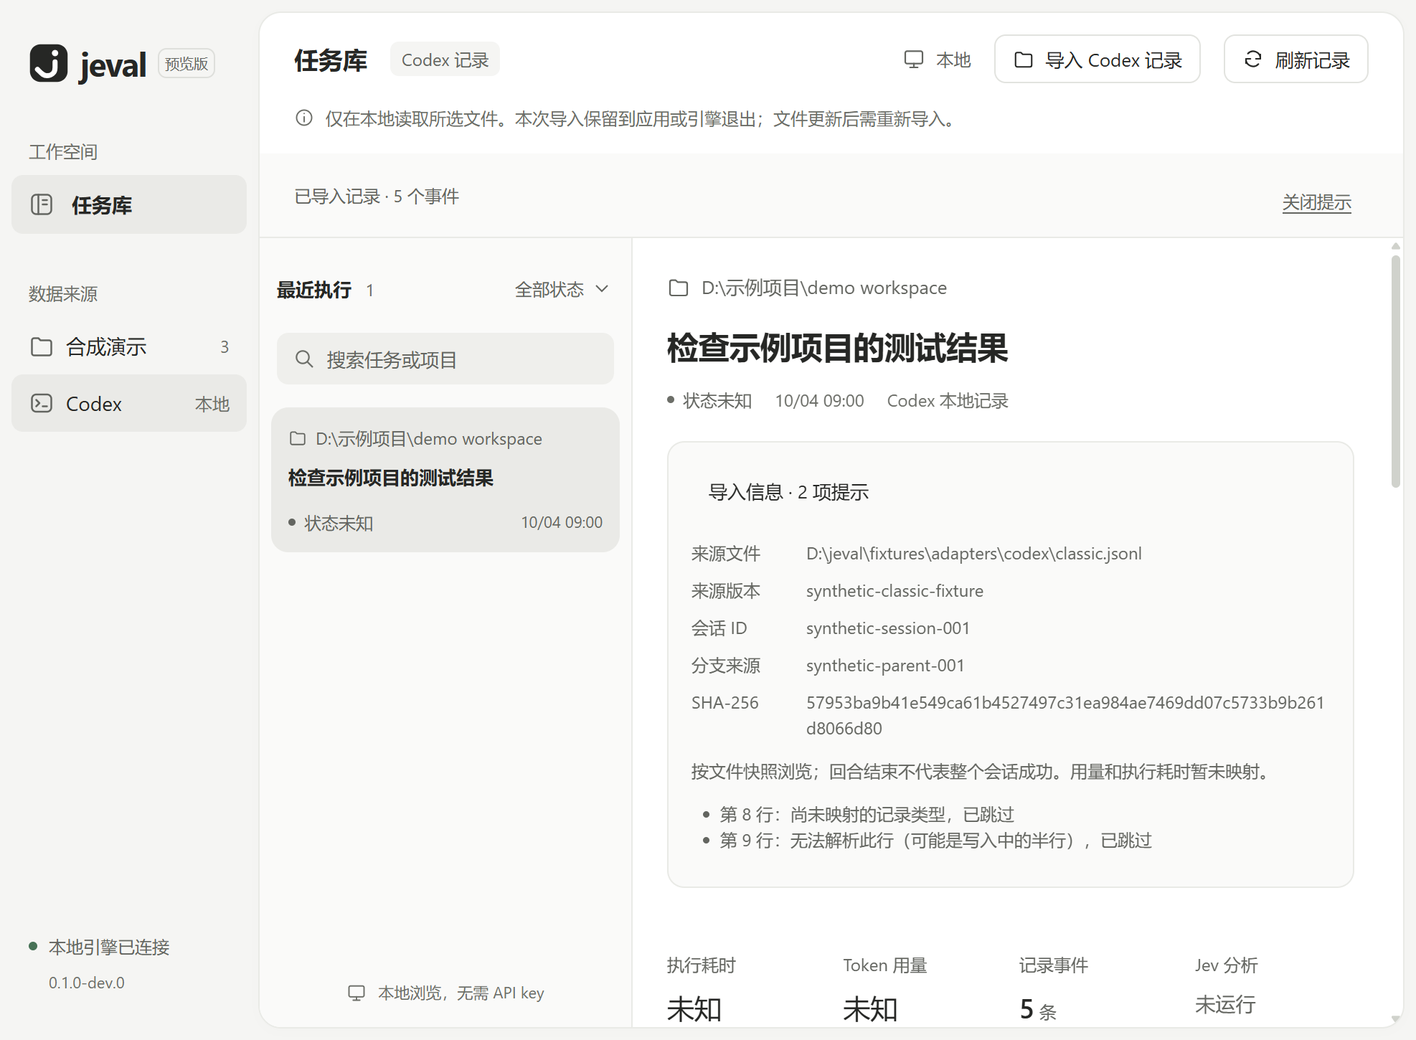
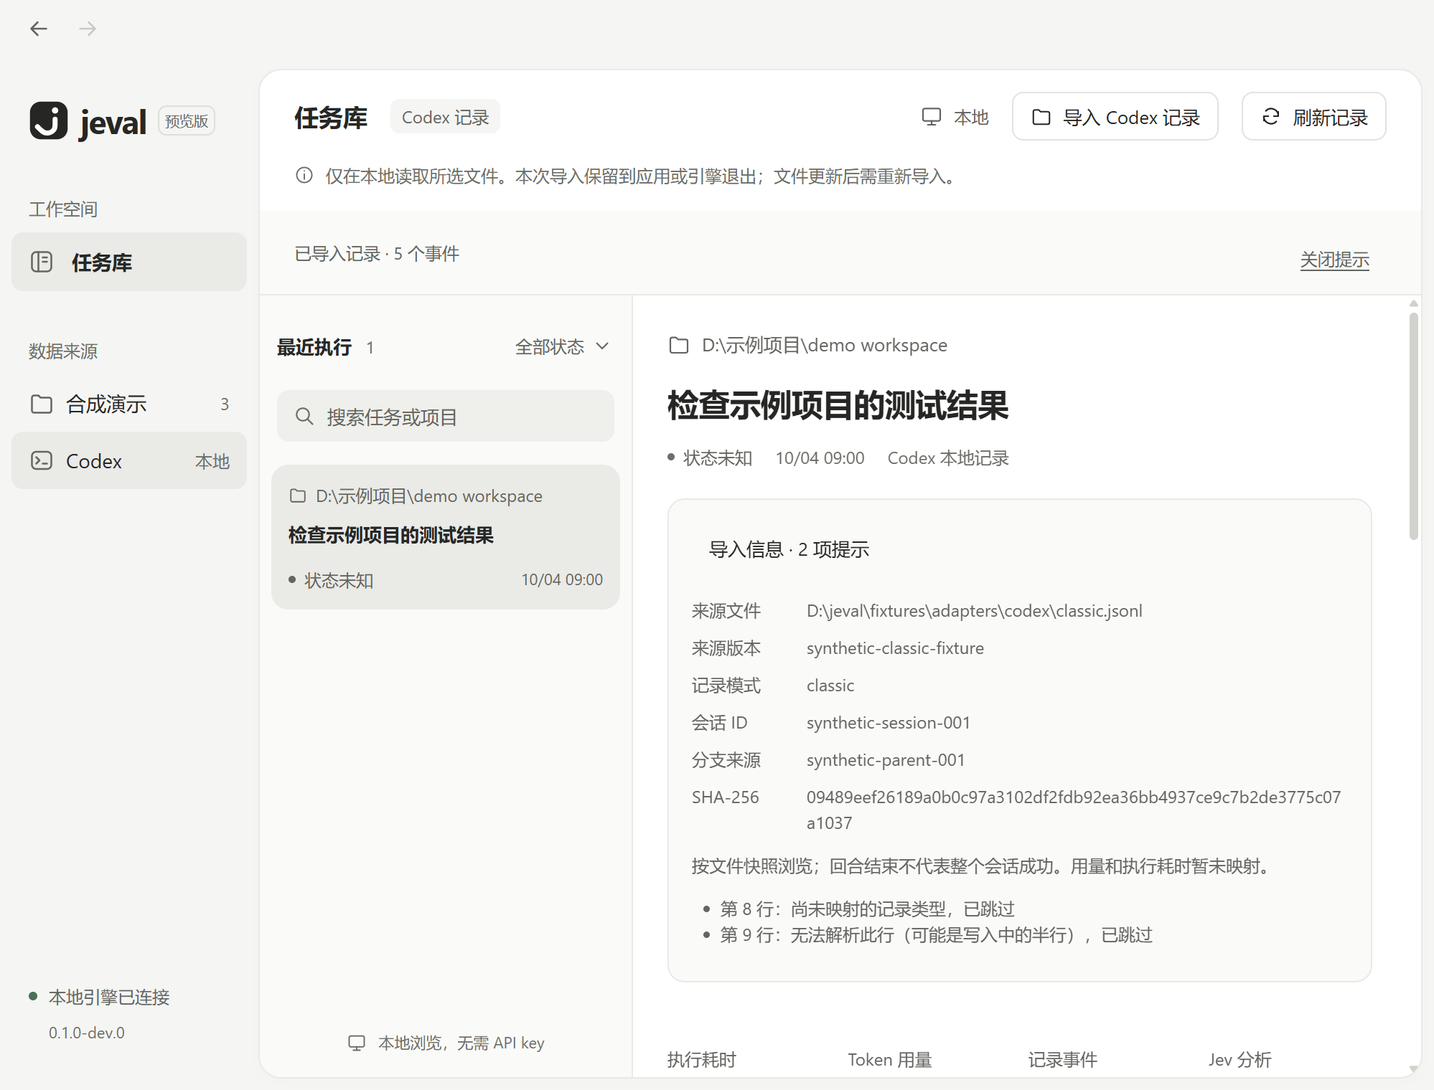
docs: record paginated compatibility and navigation validation

diff --git a/docs/adapters/codex.md b/docs/adapters/codex.md
@@ -1,33 +1,36 @@
 # Codex 适配器
 
-更新日期：2026-10-04。状态：**经典 rollout JSONL 的显式文件导入已实现，真实版本兼容性尚未验收**。
+更新日期：2026-10-04。状态：**classic / paginated rollout JSONL 导入已实现；一份 Codex 0.160.0 真实文件已在本地通过复测，完整版本兼容矩阵未验收**。
 
 点击桌面右上角“导入 Codex 记录”，通过系统文件选择器选择一个 `.jsonl` 文件。Go 只读解析所选文件，界面自动切换到 Codex 来源并选中新记录。不会自动扫描用户目录，不需要 API key，也不会发送日志到远程服务。
 
 ## 格式与验证范围
 
-适配范围为经典 rollout：逐行 `{timestamp, type, payload}`，含唯一的 `session_meta`，以及 `response_item`、`event_msg`。`history_mode` 缺省或为 `classic` 时接受；`paginated` 等其他模式明确拒绝。
+适配范围为 rollout：逐行 `{timestamp, type, payload}`，含唯一的 `session_meta`，以及 `response_item`、`event_msg`。接受缺省、`classic`、`paginated` 的 history_mode；未知模式仍明确拒绝。此前仅允许 classic，导致 Codex 0.160.0 的 paginated 文件在读取 metadata 时被拒绝，本轮已修复。
 
 字段核对依据是 OpenAI Codex 的 [ResponseItem 定义](https://github.com/openai/codex/blob/main/codex-rs/protocol/src/models.rs)、[rollout 持久化策略](https://github.com/openai/codex/blob/main/codex-rs/rollout/src/policy.rs) 和 [回合状态协议](https://github.com/openai/codex/blob/main/codex-rs/docs/protocol_v1.md)，核对日期为 2026-10-04。上游格式持续变化，本实现仅支持下表子集，不承诺覆盖某个发布版本的所有记录。
 
-仓库中的 [classic.jsonl](../../fixtures/adapters/codex/classic.jsonl) 完全由人工构造，版本字段 `synthetic-classic-fixture` 不是 Codex 发布版本。未读取或提交用户的私有会话；尚无获准公开的真实脱敏样本集。
+仓库中的 [classic.jsonl](../../fixtures/adapters/codex/classic.jsonl) 和 [paginated.jsonl](../../fixtures/adapters/codex/paginated.jsonl) 完全由人工构造，synthetic 版本字段不是 Codex 发布版本。本轮按用户指定路径只读检查了一份真实 0.160.0 文件，但没有把私人内容、绝对路径、会话 ID 或截图加入仓库；尚无获准公开的真实脱敏样本集。
 
 | 输入 | 转换与边界 |
 | --- | --- |
-| `session_meta` | 保留会话 ID、cwd、cli_version、forked_from_id；无有效 ID 或重复 metadata 时拒绝导入 |
+| `session_meta` | 保留会话 ID、cwd、cli_version、history_mode、forked_from_id、parent_thread_id；父线程与分支来源分别展示，不混为一谈 |
 | `response_item.message` | 展示 user/assistant/system/developer 文本；其他内容块显示占位，不加载图片或附件 |
 | `function_call` / `custom_tool_call` | 工具名与参数/输入；保留 call_id 关联，重复 call_id 拒绝导入 |
 | 对应的 `*_output` | 展示结果原文或 JSON，按 call_id 指向父调用；找不到调用时给出提示 |
 | `event_msg.task_started/task_complete/turn_aborted` | 展示为回合状态事件；不据此判定整个会话成功、失败或仍在运行 |
 | `event_msg.error` | 展示来源错误，不将单个工具/回合错误推广为会话失败 |
 | `event_msg.user_message/agent_message` | 忽略镜像消息，避免与 response_item 重复；仅含镜像的格式不在完整兼容范围内 |
-| `turn_context`、`event_msg.token_count` | 暂不展示或计算；耗时、token 为 null，会话状态为 unknown |
+| `event_msg.item_completed` | 支持 UserMessage/AgentMessage，识别 text/Text 内容；优先保留 canonical response_item，按 ID 或同回合的角色/文本摘要去重，只有投影时保留该消息 |
+| `turn_context`、`event_msg.token_count`、`token_usage_record` | 暂不展示或计算；耗时、token 为 null，会话状态为 unknown |
+| `world_state`、`thread_settings_applied`、reasoning / Reasoning | 已知的环境、设置与内部推理记录，不作为可见时间线事件，不重复产生未知类型提示 |
 | 未知类型、无效行与尾部半行 | 跳过并登记物理行号，不停止处理后续合法行 |
 
 ## 身份、证据与重复导入
 
 - 文件身份来自解析符号链接后的绝对路径哈希；Windows 按不区分大小写的路径去重。相同路径重导入时完整替换该记录，不追加重复事件；不同路径的副本保留为不同记录。
 - 会话 ID 和分支来源单独保留，不将每个回合强行拆成独立运行，也不跨文件自动合并会话。
+- paginated 消息去重先检查整个文件中的 canonical 消息，支持投影先于原消息写入；文本匹配限制在同一回合，不把不同回合的同文提示合并。未知 item_completed 类型仍给出提示，不宣称覆盖所有投影工具类型。
 - 每个事件的 ID 包含文件身份与一基物理行号；`parentId` 只按来源 call_id 关联，支持结果先于调用的记录。
 - 导入信息保存实际读取字节的 SHA-256、来源路径、版本及解析提示。摘要用于核对本次读取，不等于源文件已被持久化备份；读取正在写入的文件不提供源端事务一致性保证。
 - 再次导入发生致命错误时保留上一份可用记录。截断、替换后的合法文件可通过重导入更新，但这不是检查点式增量同步。
@@ -42,4 +45,6 @@
 
 Go 测试覆盖映射、镜像去重、工具关联、来源字节不变、中文/空格路径、坏行/半行、无效时间、UTF-8、超大文件、事件上限和未知类型。跨进程测试覆盖重复导入、原子替换失败和大段转义文本的字节分页；桌面测试通过系统选择器返回值模拟选择，实际执行 IPC → Go 读取与查询，覆盖取消、错误、导入、替换、来源切换和退出后清空。
 
-这些检查仅验证合成样本与本机流程。仍需真实脱敏样本和发布版本兼容矩阵、长日志性能测试、真实系统文件选择器人工验收，以及后续持久化/增量同步。整体状态见 [M0 进度](../development/m0-progress.md)，字段以 [记录草案](../../contracts/record/README.md) 为准。
+本轮增加 paginated 回归：镜像先后顺序、跨回合同文消息保留、缺少 canonical 的消息回退、父线程来源和工具关联。用户指定的 0.160.0 文件已在开发构建及最终目录包中复测：107 个事件、55 条消息、3 页查询，来源文件字节摘要不变；12 项提示均为 8 KiB 正文预览截断，不是解析失败。Electron 实际导入和 Windows 原生窗口控制覆盖层可见性检查通过，私人内容未进入测试产物。
+
+上述真实检查只覆盖一份消息/回合记录，不能推广为所有 0.160.0 功能均兼容。仍需公开脱敏样本和发布版本矩阵、复杂工具投影、长日志性能、真实系统文件选择器人工验收，以及持久化/增量同步。整体状态见 [M0 进度](../development/m0-progress.md)，字段以 [记录草案](../../contracts/record/README.md) 为准。

diff --git a/docs/releases/m0-preview.md b/docs/releases/m0-preview.md
@@ -2,9 +2,11 @@
 
 更新日期：2026-10-04。版本：`0.1.0-dev.0`。状态：**本机目录包验证通过，尚未发布**。
 
-当前交付合成记录浏览和 Codex 经典 JSONL 的显式文件导入。真实来源版本兼容、安装后完整使用流程和公开 Alpha 范围均未验收。
+当前交付合成记录浏览、Codex classic/paginated JSONL 显式导入和窗口历史导航。用户提供的一份 0.160.0 记录已在最终目录包中验证；完整版本兼容矩阵、安装后完整使用流程和公开 Alpha 范围均未验收。
 
-2026-10-04，Codex 单文件导入切片已重新构建目录包；`npm run check`、`npm run pack` 及最终包的 2 项 E2E 通过。导入仅保留在引擎内存，退出后清空，格式和大小限制见 [适配器说明](../adapters/codex.md)。全部新增来源样本均为合成；文件选择器使用测试返回值驱动，尚未完成真实日志和原生对话框人工验收。
+本次修复已重新打包并通过 2 项 E2E；最终 exe 用用户指定的真实文件导入、分页、证据行号及原文件校验复测通过。原生窗口覆盖层可见；浏览历史箭头和窗口拖动区域样式已验证。公开截图与 fixture 仍仅使用合成内容。
+
+此前的 Codex 单文件导入切片通过 `npm run check`、`npm run pack` 及 2 项 E2E，当时仅验证合成样本。本轮已补充上面的真实文件验证。导入仍仅保留在引擎内存，退出后清空，格式和大小限制见 [适配器说明](../adapters/codex.md)；原生文件对话框人工验收尚未完成。
 
 2026-10-04 UI 第二版已按 Mac / Codex 风格更新并重新生成同一路径的目录包，类型检查、构建和最终目录包 E2E 通过。当前截图和设计说明见 [M0 界面](../design/m0-ui.md)。重新打开目录包中的程序即可使用新界面。
 
@@ -32,7 +34,7 @@
 | 没有 Go/Node 的干净 Windows 设备 | 未验证 | 本机具备开发工具，不能替代该验收 |
 | 中文/空格安装路径、权限、缩放、升级迁移 | 未验证 | 需独立测试环境与用例 |
 | GitHub Actions | 已配置；本表不作为远程运行记录 | 实际运行结果以 PR checks 为准，[CI 工作流](../../.github/workflows/ci.yml) |
-| Codex JSONL 单文件导入 | 合成样本检查通过 | 真实版本兼容性未验收；目录、持久化和导出再导入仍未实现 |
+| Codex JSONL 单文件导入 | classic/paginated 合成回归与一份 0.160.0 真实记录通过 | 完整版本兼容矩阵未验收；目录、持久化和导出再导入仍未实现 |
 | 许可证、签名与公开发布材料 | 未完成 | 由后续开源发布阶段处理 |
 
 当前端到端用例见 [desktop.spec.ts](../../tests/e2e/desktop.spec.ts)。两项用例验证演示浏览及合成 JSONL 导入、替换、错误、证据、两种窗口尺寸及显式重启，不验证真实日志版本兼容、数据迁移或安装流程。

diff --git a/docs/development/m0-progress.md b/docs/development/m0-progress.md
@@ -4,7 +4,20 @@
 
 阶段结论：**M0 进行中，演示浏览与 Codex 显式文件导入可用，里程碑未验收完成**。主规划中的决策与清单见 [开发规划](../jeval-development-plan.md)，专题入口见 [文档索引](../README.md)。
 
-## Codex 单文件导入切片
+## Paginated 导入修复与窗口历史导航
+
+2026-10-04，PR #2 合并后，用户提供了一份不能导入的真实记录。只读检查发现来源为 Codex 0.160.0、history_mode=paginated；上一版的 classic 白名单提前拒绝了该文件。
+
+- 支持 paginated，并处理 `item_completed` 的 UserMessage/AgentMessage 投影；优先 canonical 消息，按 ID 或同回合角色/文本去重，跨回合相同提示保留，只有投影时仍可显示。识别 Text 文本块，已知环境、设置和内部推理行不产生重复的未知类型提示。
+- 导入信息展示记录模式与父线程，父线程与 fork 来源分别保留。导入错误移除 Electron IPC 包装文字，直接展示原因。
+- 窗口顶部重复品牌替换为左右箭头，保留原生窗口按钮和拖动区域。历史可在记录和来源之间前进/后退，恢复筛选、处理失效记录，最多 100 项；不新增任意导航/文件操作权限。
+- 重新构造 paginated fixture，覆盖双重表示、乱序投影、跨回合同文、投影回退与工具关联；没有提交真实会话内容、路径、标识或截图。
+
+验证：`npm run check`、未打包的 2 项 E2E、`npm run pack`、最终目录包的 2 项 E2E 均通过。新增桌面断言覆盖箭头禁用、记录/来源前后导航、分支清除及拖动/no-drag 样式；截图在 1440/1000 宽度检查。用户指定的真实文件在开发构建和最终目录包中导入通过，解析出 107 个事件、55 条消息，3 页读取，全部证据行号有效，源文件校验不变；12 项提示全部是长正文预览截断。窗口原生覆盖层报告可见。
+
+范围：这只是一个真实消息/回合样本的验证，不能宣称所有 0.160.0 工具投影均兼容。自动化通过替换文件选择器返回值触发真实 IPC/Go 读取；系统对话框人工操作、窗口按钮实际点击、多平台、完整安装与持久化仍未验收。
+
+## Codex 单文件导入切片（此前记录）
 
 2026-10-04，PR #1 合并后，在同一功能分支快进到 main，开始首个来源的受控导入。
 

diff --git a/docs/design/m0-ui.md b/docs/design/m0-ui.md
@@ -18,6 +18,10 @@
 
 主题样式位于 [global.css](../../apps/desktop/src/renderer/styles/global.css)，交互入口位于 [App.tsx](../../apps/desktop/src/renderer/app/App.tsx)，线性图标统一使用 [Icon.tsx](../../apps/desktop/src/renderer/components/Icon.tsx)。图标为本地 SVG，不依赖字体符号或远程资源。保留系统原生窗口控制，不添加装饰性 Mac 红黄绿按钮。
 
+窗口顶部不再重复显示品牌与“Agent 工作台”文字，改为 40px 高的轻量导航栏，左侧是后退/前进。使用 Electron `titleBarStyle: hidden` 与原生 `titleBarOverlay`，保留 Windows 最小化、最大化和关闭按钮；空白区域可拖动，导航按钮使用 no-drag，安全区域避开系统控件。实现依据见 [Electron 标题栏文档](https://www.electronjs.org/docs/latest/tutorial/custom-title-bar)。任务栏/窗口元数据仍保留应用名称和图标。
+
+箭头已可用于记录与来源的浏览历史：保留每次访问的来源、选中记录和筛选；没有历史时禁用，后退后打开另一条记录会清除前进分支。筛选输入更新当前访问，不按每个字符新建历史。内存历史最多 100 项，显式重连清空；记录不存在时回到可用记录或空态，不执行来源文件中的导航。
+
 ## 视觉规则
 
 用户参考图用于确定简洁、明快、留白协调的视觉方向。当前仍在 Windows 运行；系统字体栈优先使用平台可用字体，没有打包或下载 Apple 字体，也不承诺不同系统文字渲染完全一致。
@@ -39,6 +43,7 @@
 | 行为/状态 | 当前实现 |
 | --- | --- |
 | 任务选择 | 显示选中状态，并加载对应运行事件 |
+| 顶部前进/后退 | 在已访问记录和来源之间切换，保留筛选；控制禁用、前进分支和缺失记录回退 |
 | 搜索与筛选 | 匹配标题/项目/来源，支持完成、失败、未知状态；空结果可清除筛选 |
 | 事件浏览 | 按来源顺序展示，初始请求 50 条；有后续页时提供“加载更多” |
 | 工具输出 | 默认收起，通过 details/summary 展开，按普通文本显示 |

diff --git a/fixtures/adapters/codex/README.md b/fixtures/adapters/codex/README.md
@@ -2,6 +2,8 @@
 
 `classic.jsonl` is entirely synthetic. It contains no user session data and makes no claim about a specific Codex release. `synthetic-classic-fixture` is a fixture label, not a CLI version.
 
-The fixture covers session/fork metadata, a mirrored user message, canonical text messages, a function call and failed output, a turn completion marker, an unknown record, and a malformed line. The HTML-like output must render as plain text. Source order and physical line numbers are intentionally stable for evidence assertions.
+The classic fixture covers session/fork metadata, a mirrored user message, canonical text messages, a function call and failed output, a turn completion marker, an unknown record, and a malformed line. The HTML-like output must render as plain text. Source order and physical line numbers are intentionally stable for evidence assertions.
+
+`paginated.jsonl` is also entirely synthetic, constructed after inspecting the structure of a user-authorized Codex 0.160.0 file. It contains no copied private messages or identifiers. It covers parent-thread metadata, canonical/projected message deduplication in both physical orders, identical text in different turns, projected-only messages with `Text` content, tool relationships, and known non-display metadata. Expected output is 9 events with no warnings; the real source file is never committed.
 
 See the [adapter mapping and limitations](../../../docs/adapters/codex.md). Boundary inputs such as oversized text, incomplete final lines, and malformed metadata are generated by tests rather than checked in as large files.

diff --git a/contracts/protocol/README.md b/contracts/protocol/README.md
@@ -32,4 +32,4 @@
 
 桌面请求默认超时 5 秒，单文件导入为 30 秒，最多 128 个未完成请求。文件选择/导入与重启互斥。超时不是取消；不自动重放导入。连接损坏、子进程退出或输入管道错误时拒绝所有等待中的请求；界面提供显式重启。重启清除所有内存导入记录。关闭时发送 shutdown，最多等候 1.5 秒后终止子进程。
 
-Electron 渲染层只能访问 `hello/listRuns/listEvents/restartEngine/importCodex` 五个业务方法，不提供任意 IPC、路径访问或执行命令能力。`importCodex()` 没有参数，只能由主进程文件选择器提供路径；取消返回 null。主进程校验调用窗口与顶层 frame URL。启用 context isolation、sandbox 和 CSP，拒绝新窗口与页面跳转。依据：[Electron 安全指南](https://www.electronjs.org/docs/latest/tutorial/security)、[electron-vite 构建文档](https://electron-vite.org/guide/build)。
+Electron 渲染层只能访问 `hello/listRuns/listEvents/restartEngine/importCodex` 五个业务方法，以及只读 platform 字符串（标题栏布局使用），不提供任意 IPC、路径访问或执行命令能力。`importCodex()` 没有参数，只能由主进程文件选择器提供路径；取消返回 null。主进程校验调用窗口与顶层 frame URL。启用 context isolation、sandbox 和 CSP，拒绝新窗口与页面跳转。依据：[Electron 安全指南](https://www.electronjs.org/docs/latest/tutorial/security)、[electron-vite 构建文档](https://electron-vite.org/guide/build)。

diff --git a/docs/development/getting-started.md b/docs/development/getting-started.md
@@ -16,7 +16,9 @@ npm run dev
 
 ## 导入 Codex 文件
 
-点击“导入 Codex 记录”，选择经典 rollout `.jsonl` 文件。首次体验可选择仓库中的 `fixtures/adapters/codex/classic.jsonl` 合成样本。导入后在 Codex 来源查看记录，展开“导入信息”核对版本、解析提示、会话 ID 和摘要；“查看来源证据”显示导入时的实际文件行号。
+点击“导入 Codex 记录”，选择 classic 或 paginated rollout `.jsonl` 文件。首次体验可选择仓库中的 `fixtures/adapters/codex/classic.jsonl` 或 `paginated.jsonl` 合成样本。导入后在 Codex 来源查看记录，展开“导入信息”核对版本、记录模式、解析提示、会话 ID 和摘要；“查看来源证据”显示导入时的实际文件行号。
+
+窗口顶部箭头支持访问记录和来源的后退/前进，无历史时禁用。若旧目录包提示“仅支持 classic rollout”，关闭旧程序并重新打包/打开最新 exe；修复版已支持用户提供的 Codex 0.160.0 paginated 文件。长内容的 8 KiB 预览提示表示展示被截断，不等于文件导入失败。
 
 取消文件选择不会改变已有记录。相同路径再次导入会更新快照；“刷新记录”仅重新查询当前内存。应用或引擎退出后导入清空，需要重新选择文件。单文件上限 16 MiB / 5000 个事件；尚无目录发现、自动同步或持久化，完整限制见 [Codex 适配器](../adapters/codex.md)。
 

diff --git a/contracts/record/README.md b/contracts/record/README.md
@@ -11,7 +11,7 @@ TypeScript 定义位于 `contracts/index.ts`，Go 对应结构位于 `engine/int
 - `evidence` 保存 `sourceId/location/line`；`embedded:` 表示合成证据。真实适配器需要提供实际来源定位，不能复用合成来源标识。
 - `parentId` 保留关联关系，不使用时间相近自动推断因果。
 - `kind=lifecycle` 表示来源回合开始、结束或中止；与 verification 分开，不表示通过验证。Codex 会话仍为 unknown，耗时及 token 暂不映射。
-- Codex 运行带可选 `importInfo`：`file/sha256/sessionId/cliVersion/forkedFromId?/warningCount/warnings`。warnings 保存最多 30 条 `{line,message}`，warningCount 为完整计数。摘要对应实际读取的原始字节，不代表已保存原文件副本。
+- Codex 运行带可选 `importInfo`：`file/sha256/sessionId/cliVersion/historyMode/forkedFromId?/parentThreadId?/warningCount/warnings`。historyMode 为 classic 或 paginated；父线程和分支来源不混用。warnings 保存最多 30 条 `{line,message}`，warningCount 为完整计数。摘要对应实际读取的原始字节，不代表已保存原文件副本。
 - Codex 的 `source=Codex`、`demo=false`；事件 line 为实际文件物理行号，事件 ID 由规范化路径身份和行号组成。标题取第一条非空 user 消息前 80 个字符；正文最多保留 8 KiB 预览，截断有提示。
 - 文本按普通文本渲染，不执行日志中的 HTML、链接或命令。
 

diff --git a/README.md b/README.md
@@ -6,7 +6,7 @@
 
 A local desktop workbench for inspecting agent runs. Explore timelines, tool output, and source evidence in one place.
 
-**Early development preview.** Browse demo runs or explicitly import a classic Codex rollout JSONL file. Inspect messages, tool results, and source lines locally, without an API key. Imports are held in memory; automatic sync, persistence, and Jev analysis are still planned. Codex release compatibility is not yet verified.
+**Early development preview.** Browse demo runs or import classic/paginated Codex rollout JSONL files. Inspect messages, tool results, and source lines locally, without an API key. Imports are held in memory; automatic sync, persistence, and Jev analysis are still planned. One Codex 0.160.0 recording has been validated; broader compatibility is still being tested.
 
 ![jeval desktop preview](docs/design/m0-desktop.png)
 

diff --git a/README.zh-CN.md b/README.zh-CN.md
@@ -6,7 +6,7 @@
 
 面向 Agent 开发者的本地桌面工作台，集中查看执行时间线、工具输出和来源证据。
 
-**当前为早期开发预览。** 可浏览演示记录，或显式导入经典 Codex rollout JSONL 文件，在本地查看消息、工具结果与来源行号，无需 API key。导入仅保留在内存中；自动同步、持久化及 Jev 分析尚未实现，Codex 发布版本兼容性仍待验证。
+**当前为早期开发预览。** 可浏览演示记录，或导入 classic/paginated Codex rollout JSONL 文件，在本地查看消息、工具结果与来源行号，无需 API key。导入仅保留在内存中；自动同步、持久化及 Jev 分析尚未实现。已验证一份 Codex 0.160.0 记录，更广的版本兼容性仍待测试。
 
 ![jeval 桌面预览](docs/design/m0-desktop.png)
 
